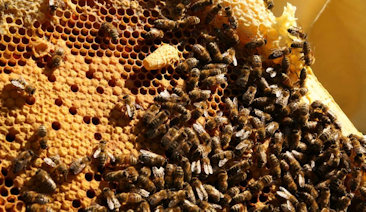
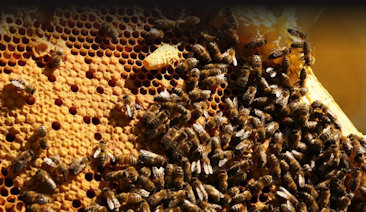
added link to profile page if logged in, otherwise a popup message. Added code to dismiss pop-up. fix to button localpedia and added gradiant to images for better visibility of links.

Changed region(s): [[0.0, 0.0, 1.0, 0.2264], [0.541, 0.1415, 0.6011, 0.2264]]

diff --git a/growsocial/client/views/home/home.html b/growsocial/client/views/home/home.html
@@ -60,10 +60,7 @@
 <div class="row">
 <div class="col-md-4">
 <div  class="thumbnail" id="member_image_block">
-    <a href=""> <img id="featureImg" src="/images/Member image block.png" class="image"  data-toggle="popover" data-html="true" data-container="body"  title="Welcome to your Members section! "  data-content="Meet the people in your area participating in your food web and sustainable community.  See them on a map and learn who’s in your own neighborhood. Find people to learn from, share with and collaborate with.  <br><br>
-
-The members section gives you an overview of who is participating in the food web in your area. It helps you find those nearby and discover and be discovered.
-"></a>
+    <a href="/people"> <img id="featureImg" src="/images/Member image block.png" class="image"></a>
     <div class="overlayText">
     <p id="featureHdr"> Members </p>
     </div>
@@ -89,17 +86,26 @@ This will also allow you to see the events coming in your area and schedule so t
 </div>
 <div class="col-md-4">
 <div class="thumbnail" id="main_image_block">
-    <a href=""> <img src="/images/main image block.png" class="image" /></a>
-        <div class="HomecentralImg">
-            <p id="Phoenix_Farms_Lakeland_Florida">
-        <span id="txtHOME01">Phoenix Farms<br /></span><span id="txtHOME02">Lakeland, Florida</span>
-    </p>
+    
+ {{#if currentUser.profile.firstname}}
+    <a href="{{pathForProfile}}"><img src="/images/main image block.png" class="image"/></a>
+  {{else}}
+     <a href=""><img src="/images/main image block.png" class="image" data-toggle="popover" data-html="true" data-container="body" data-placement="left" title="Clicking the featured farm brings me to my own profile page " data-content="This will link you to your farm page."/></a>
+  {{/if}}  
+<!--    <a href="/profile"> <img src="/images/main image block.png" class="image"/></a>
+            <div class="HomecentralImg">
+            <p id="Your Profile Page">
+        <span id="txtHOME01">{{fullname}}<br /></span><span id="txtHOME02"></span>
+                </p></div>-->
+    
+            <div class="HomecentralImg">
+            <p id="Phoenix_Farms_Lakeland_Florida"><span id="txtHOME01">
+        {{#if currentUser.profile.firstname}}{{currentUser.profile.firstname}}<br />{{currentUser.profile.lastname}}{{else}}Phoenix Farms<span id="txtHOME02"> Lakeland, Florida</span>{{/if}}</span>
+        </p></div>
       <p id="Main_headerx">Connect. Share. Learn. GrowSocial!</p>
     <p id="Main_header2x">Join the fast-growing network of people dedicated to local food growing and creating a sustainable economy.<br />
     </p>
     <a href="/help"><button type="button" id="Learn_More_button" class="btn btn-primary">Learn More</button></a>
-    
-        </div>
     </div>
     </div>
 <div class="col-md-4">
@@ -181,10 +187,7 @@ These pages will be the people who are working full time in some aspect of the f
    <p> Growing conditions, plants and soils and everything else related to food production in your local area. Localpedia is your Wikipedia on a local level and lets you find and share information that’s relevant to your area.
     </p>
     </div>
-    <div><a href=""> <button type="button" id="localpedia_button" class="btn btn-primary" data-toggle="popover" data-container="body" data-html="true" data-placement="left" title="Welcome to your Opportunities! " data-content="Are you looking for a job in the local food movement?  Do you need to hire someone who understands rain barrels or food forests? Do you have manure to give away or need tree mulch? Find the answers or post questions in the “opportunities” section of GrowSocial! <br><br>
-
-You can think of the opportunities section as your area’s personal Craigslist that is specific to posting around local food and sustainability employment, things to trade, services to hire, etc.  You can list your community garden, post for volunteers, etc.
-">View Localpedia    </button></a></div>
+    <div><a href=""> <button type="button" id="localpedia_button" class="btn btn-primary" data-toggle="popover" data-container="body" data-html="true" data-placement="left" title="Welcome to your Localpedia! " data-content="Your Localpedia is just like Wikipedia, except you can find and/or post information that is relevant to your location. Nettle, for example, is very different in Georgia than it is in South Florida.    <br><br>      Plants, soils, pests and more can vary greatly just 20 or 30 miles away. Localpedia will allow you to have specific data on your own area, developed by people from your own community and yourself. ">View Localpedia    </button></a></div>
 </div>
 <div class="col-xs-12 col-sm-5 col-md-5" >
  <img id="localPediaMAP"  src="/images/localPediaMAP.png" class="img-thumbnail" /> 
@@ -200,13 +203,13 @@ You can think of the opportunities section as your area’s personal Craigslist 
       <a href="#" >Grow Social &copy; 2015</a>
          </div>
   <div class="col-sx-12 col-md-2" id="About_FAQ_Privacy_">
-    <a href="#">About</a>
+    <a href="/story">About</a>
       </div>
   <div class="col-sx-12 col-md-2" id="About_FAQ_Privacy_">
-    <a href="#">FAQ</a>
+    <a href="/help">FAQ</a>
       </div>
   <div class="col-sx-12 col-md-2" id="About_FAQ_Privacy_">
-    <a href="#">Privacy</a>
+    <a href="/help">Privacy</a>
 </div>
   </div>
     </div>

diff --git a/growsocial/client/views/home/home.js b/growsocial/client/views/home/home.js
@@ -19,3 +19,22 @@ $(document).ready(function(){
 Template.homeNew.onRendered(function() {
     $('[data-toggle="popover"]').popover(); 
 });
+
+Template.homeNew.onDestroyed(function() {
+    $('[data-toggle="popover"]').popover("hide"); 
+});
+
+
+Template.helpMain.onDestroyed(function() {
+    $('[data-toggle="popover"]').popover("hide"); 
+});
+
+Template.homeNew.helpers({
+  pathForProfile: function() {
+    var params = {
+      personId: Meteor.userId(),
+    };
+    var path = FlowRouter.path("profile", params);
+    return path;
+  },
+});

diff --git a/growsocial/client/views/help/help.js b/growsocial/client/views/help/help.js
@@ -2,3 +2,11 @@
 Template.helpMain.onRendered(function() {
     $('[data-toggle="popover"]').popover(); 
 });
+Template.homeNew.onDestroyed(function() {
+    $('[data-toggle="popover"]').popover("hide"); 
+});
+
+
+Template.helpMain.onDestroyed(function() {
+    $('[data-toggle="popover"]').popover("hide"); 
+});

diff --git a/growsocial/client/views/help/help.css b/growsocial/client/views/help/help.css
@@ -1,6 +1,6 @@
 #centralImg {
         float: left;
-        width: auto;max-width: 100%; height: 550px;
+        width: auto;max-width: 100%; height: 350px;
         margin-left: 0%;   
         clear: none;
         color: rgb(0, 0, 0);
